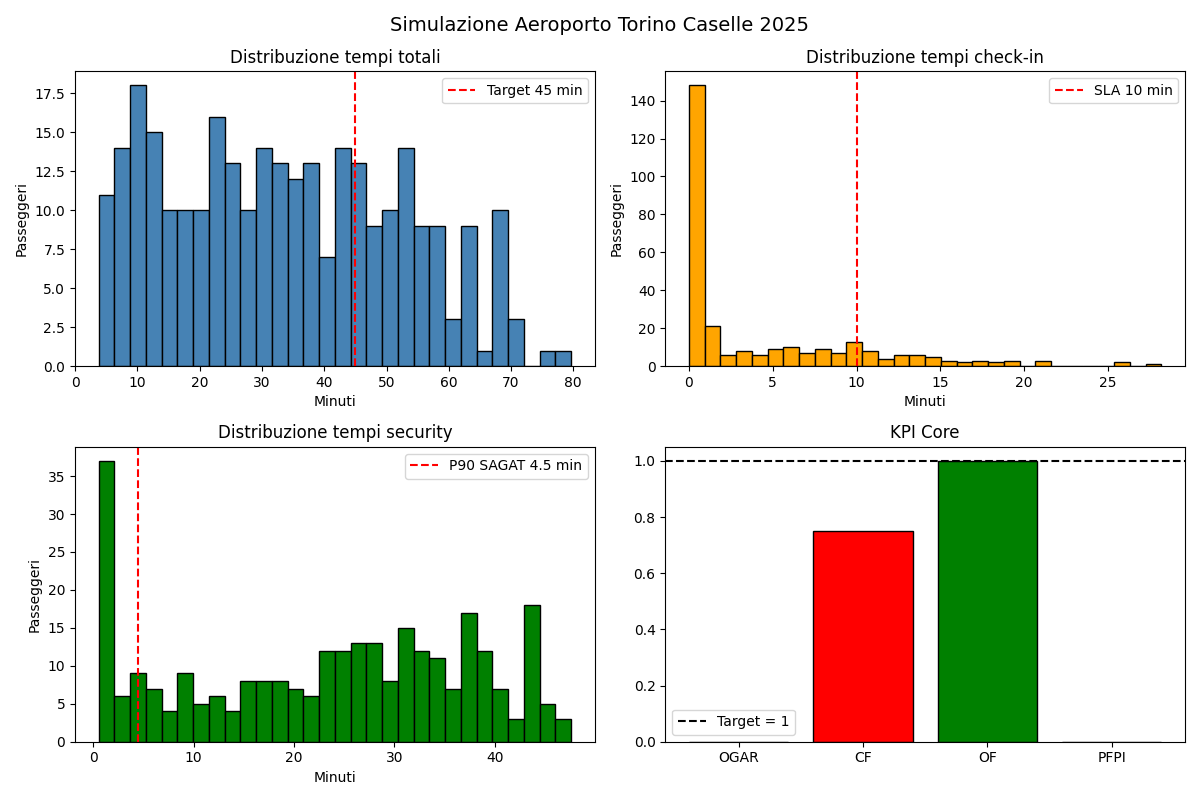
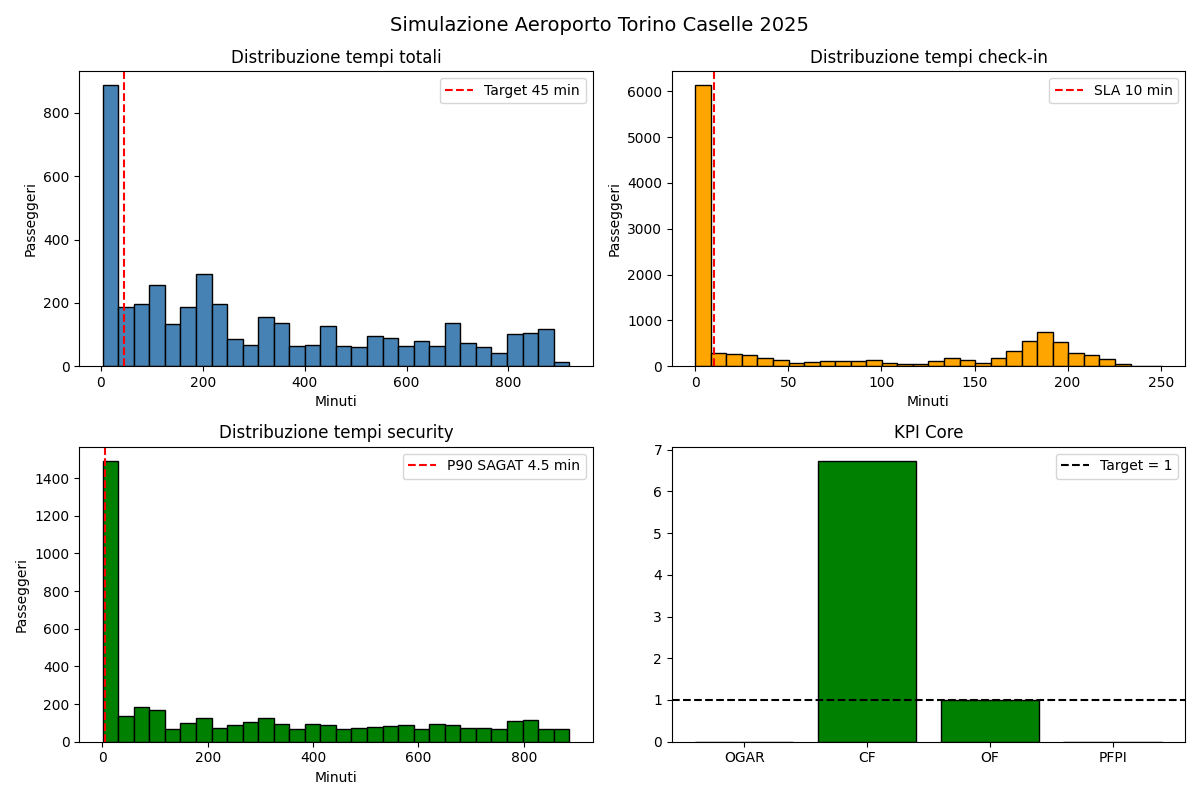
primi output grafici

diff --git a/main.py b/main.py
@@ -2,14 +2,15 @@ import simpy
 import random
 import numpy as np
 from scipy import stats
-from events import Passeggero
+import matplotlib.pyplot as plt
+import os
+from events.events import Passeggero
 from inputdata import (
     prepara_data_simpy, dettaglio_aereo, genera_passeggeri,
     compagnie_info,
     BANCHI_CHECKIN_APERTI, NASTRI_SECURITY,
-    PCT_CHECKIN_ONLINE_SOLO_MANO, PCT_CHECKIN_ONLINE_BAG_DROP,
-    PCT_EXTRA_SCHENGEN, PCT_FAST_TRACK, PCT_EGATE,
-    TEMPO_CHECKIN_BANCO_MIN, TEMPO_CHECKIN_BANCO_MAX,
+    PCT_FAST_TRACK, PCT_EGATE,
+    TEMPO_CHECKIN_BANCO_MIN,
     TEMPO_BAG_DROP_MIN, TEMPO_BAG_DROP_MAX,
     TEMPO_FAST_TRACK_MIN, TEMPO_FAST_TRACK_MAX,
     TEMPO_BORDER_CONTROL_MIN, TEMPO_BORDER_CONTROL_MAX,
@@ -27,27 +28,29 @@ voli_puntuali = []
 # ── PROCESSO PASSEGGERO ──────────────────────────
 def processo_passeggero(env, pax, checkin, security, orario_volo):
 
-    # anticipo arrivo in aeroporto
+    # genera anticipo casuale — quanto prima arriva in aeroporto
     anticipo = np.clip(
         stats.norm.rvs(loc=90, scale=20),
         ANTICIPO_MIN, ANTICIPO_MAX
     )
 
-    # orario arrivo in aeroporto in minuti simulati
+    # orario in cui il passeggero arriva in aeroporto
     orario_arrivo = orario_volo - anticipo
 
     # aspetta fino all'orario di arrivo
     if orario_arrivo > env.now:
         yield env.timeout(orario_arrivo - env.now)
 
-    # segna tempo inizio percorso
+    # segna inizio percorso
     t_start = env.now
 
     # ── CHECK-IN ────────────────────────────────
     if pax.checkin_online == "online_mano":
+        # salta il check-in fisico completamente
         tempi_checkin.append(0)
 
     elif pax.checkin_online == "bag_drop":
+        # banco veloce solo per consegnare bagaglio
         t0 = env.now
         with checkin.request() as req:
             yield req
@@ -58,98 +61,99 @@ def processo_passeggero(env, pax, checkin, security, orario_volo):
         tempi_checkin.append(env.now - t0)
 
     else:
+        # banco completo o kiosk — più lento
         t0 = env.now
         with checkin.request() as req:
             yield req
             tempo = max(TEMPO_CHECKIN_BANCO_MIN,
-                       stats.lognorm.rvs(s=0.3, scale=np.exp(1.2)))
+                        stats.lognorm.rvs(s=0.3, scale=np.exp(1.2)))
             if pax.anziano:
                 tempo *= 1.5
-            tempo *= pax.gruppo
+            tempo *= pax.gruppo   # famiglia → più lento
             yield env.timeout(tempo)
         tempi_checkin.append(env.now - t0)
 
     # ── SECURITY ────────────────────────────────
     t1 = env.now
     if pax.disabilita or random.random() < PCT_FAST_TRACK:
+        # fast track — corsia dedicata più veloce
         yield env.timeout(
             random.uniform(TEMPO_FAST_TRACK_MIN, TEMPO_FAST_TRACK_MAX)
         )
     else:
+        # nastro standard — aspetta risorsa libera
         with security.request() as req:
             yield req
-            tempo_sec = max(0.5,
-                           stats.lognorm.rvs(s=0.4, scale=np.exp(0.8)))
+            tempo_sec = max(0.5, stats.lognorm.rvs(s=0.4, scale=np.exp(0.8)))
             if pax.bagaglio_stiva:
-                tempo_sec *= 1.2
+                tempo_sec *= 1.2   # bagaglio stiva → più lento
             yield env.timeout(tempo_sec)
     tempi_security.append(env.now - t1)
 
-    # ── BORDER CONTROL ──────────────────────────
+    # ── BORDER CONTROL (solo extra-schengen) ────
     if not pax.schengen:
         if random.random() < PCT_EGATE:
+            # e-gate biometrico — più veloce
             yield env.timeout(random.uniform(2, 5))
         else:
+            # sportello manuale — più lento
             yield env.timeout(random.uniform(
                 TEMPO_BORDER_CONTROL_MIN, TEMPO_BORDER_CONTROL_MAX
             ))
 
     # ── CAMMINATA AL GATE ───────────────────────
-    yield env.timeout(random.uniform(TEMPO_GATE_VICINO, TEMPO_GATE_PIANO2_DISTALE))
+    yield env.timeout(
+        random.uniform(TEMPO_GATE_VICINO, TEMPO_GATE_PIANO2_DISTALE)
+    )
 
     # ── ARRIVO AL GATE ──────────────────────────
+    # controlla se arrivato prima della chiusura gate
     orario_target = orario_volo - GATE_CLOSING
     in_tempo = env.now <= orario_target
     passeggeri_in_tempo.append(in_tempo)
 
-    # tempo totale = da quando è arrivato in aeroporto a quando è al gate
+    # salva tempo totale solo se positivo
     tempo_totale = env.now - t_start
     if tempo_totale > 0:
         tempi_totali.append(tempo_totale)
+
+
 # ── GENERATORE VOLI ──────────────────────────────
-# prende tutto il df
 def spawna_voli(env, df, checkin, security):
-    
-    # ordina per orario
+
+    # ordina per orario cronologico
     df = df.sort_values("firstseen").reset_index(drop=True)
     t_inizio = df["firstseen"].min()
-    
+
     for i, row in df.iterrows():
         airline = row["airline"]
         if airline not in compagnie_info:
             continue
-        
-        # orario volo in minuti dall'inizio simulazione
+
+        # converti orario volo in minuti dall'inizio simulazione
         orario_volo = (row["firstseen"] - t_inizio).total_seconds() / 60
-        
+
         # aspetta fino all'orario del volo
         if orario_volo > env.now:
             yield env.timeout(orario_volo - env.now)
-        
-        # crea aereo
+
+        # crea aereo dalla compagnia
         aereo = dettaglio_aereo(airline)
-        
-        # genera passeggeri
+
+        # genera tutti i passeggeri del volo
         passeggeri = genera_passeggeri(aereo)
-        
-        # lancia processo per ogni passeggero
+
+        # lancia processo SimPy per ogni passeggero
         for pax in passeggeri:
             env.process(processo_passeggero(
                 env, pax, checkin, security, orario_volo
             ))
-        
-        # aspetta fino al prossimo volo
-        for i, row in df.iterrows():
-    # ... tutto il codice ...
-    
-    # aspetta fino al prossimo volo
-            if i < len(df) - 1:
-                prossimo = df.iloc[i + 1]
-                delta = (prossimo["firstseen"] - row["firstseen"]).total_seconds() / 60
-                yield env.timeout(max(0, delta))
+        # NON c'è yield qui — passa subito al volo successivo
+        # è SimPy che gestisce i passeggeri in parallelo
+
 
 # ── CALCOLO KPI ──────────────────────────────────
-def calcola_kpi(df):
+def calcola_kpi():
     if not passeggeri_in_tempo:
         print("Nessun passeggero simulato!")
         return
@@ -169,38 +173,19 @@ def calcola_kpi(df):
     print(f"OF:    {of_:.2f}     (target = 1.0)")
     print(f"PFPI:  {pfpi:.2f}    (target > 1.0)")
     print("────────────────────────────────────────")
-    if tempi_totali:
-        print(f"Tempo medio totale:       {np.mean(tempi_totali):.1f} min")
-        print(f"Tempo medio check-in:     {np.mean(tempi_checkin):.1f} min")
-        print(f"Tempo medio security:     {np.mean(tempi_security):.1f} min")
-        print(f"95° percentile tempo:     {np.percentile(tempi_totali, 95):.1f} min")
+    print(f"Tempo medio totale:       {np.mean(tempi_totali):.1f} min")
+    print(f"Tempo medio check-in:     {np.mean(tempi_checkin):.1f} min")
+    print(f"Tempo medio security:     {np.mean(tempi_security):.1f} min")
+    print(f"95° percentile tempo:     {np.percentile(tempi_totali, 95):.1f} min")
 
-# ── MAIN ─────────────────────────────────────────
-def main():
-    df = prepara_data_simpy()
-    print(f"Simulo {len(df)} voli totali anno 2025")
 
-    # calcola durata PRIMA di tutto
-    t_inizio = df["firstseen"].min()
-    t_fine = df["firstseen"].max()
-    durata = (t_fine - t_inizio).total_seconds() / 60 + 500
-
-    env = simpy.Environment()
-    checkin = simpy.Resource(env, capacity=BANCHI_CHECKIN_APERTI)
-    security = simpy.Resource(env, capacity=NASTRI_SECURITY)
-
-    env.process(spawna_voli(env, df, checkin, security))
-    env.run(until=durata)
-
-    calcola_kpi(df)
-    grafici()
-
-import matplotlib.pyplot as plt
-
+# ── GRAFICI ──────────────────────────────────────
 def grafici():
+    os.makedirs("output", exist_ok=True)
+
     fig, axes = plt.subplots(2, 2, figsize=(12, 8))
     fig.suptitle("Simulazione Aeroporto Torino Caselle 2025", fontsize=14)
-    
+
     # grafico 1 — distribuzione tempi totali
     axes[0,0].hist(tempi_totali, bins=30, color="steelblue", edgecolor="black")
     axes[0,0].axvline(x=45, color="red", linestyle="--", label="Target 45 min")
@@ -208,7 +193,7 @@ def grafici():
     axes[0,0].set_xlabel("Minuti")
     axes[0,0].set_ylabel("Passeggeri")
     axes[0,0].legend()
-    
+
     # grafico 2 — distribuzione tempi check-in
     axes[0,1].hist(tempi_checkin, bins=30, color="orange", edgecolor="black")
     axes[0,1].axvline(x=10, color="red", linestyle="--", label="SLA 10 min")
@@ -216,7 +201,7 @@ def grafici():
     axes[0,1].set_xlabel("Minuti")
     axes[0,1].set_ylabel("Passeggeri")
     axes[0,1].legend()
-    
+
     # grafico 3 — distribuzione tempi security
     axes[1,0].hist(tempi_security, bins=30, color="green", edgecolor="black")
     axes[1,0].axvline(x=4.5, color="red", linestyle="--", label="P90 SAGAT 4.5 min")
@@ -224,28 +209,61 @@ def grafici():
     axes[1,0].set_xlabel("Minuti")
     axes[1,0].set_ylabel("Passeggeri")
     axes[1,0].legend()
-    
-    # grafico 4 — KPI core
+
+    # grafico 4 — KPI core a barre
     kpi_labels = ["OGAR", "CF", "OF", "PFPI"]
-    kpi_values = [
-        sum(passeggeri_in_tempo) / len(passeggeri_in_tempo),
-        np.mean(tempi_totali) / 45,
-        1.0,
-        (sum(passeggeri_in_tempo) / len(passeggeri_in_tempo)) / 
-        (np.mean(tempi_totali) / 45)
-    ]
+    ogar = sum(passeggeri_in_tempo) / len(passeggeri_in_tempo)
+    cf = np.mean(tempi_totali) / 45
+    of_ = 1.0
+    pfpi = ogar / (cf * of_) if cf > 0 else 0
+    kpi_values = [ogar, cf, of_, pfpi]
     colori = ["green" if v >= 1 else "red" for v in kpi_values]
     axes[1,1].bar(kpi_labels, kpi_values, color=colori, edgecolor="black")
     axes[1,1].axhline(y=1, color="black", linestyle="--", label="Target = 1")
     axes[1,1].set_title("KPI Core")
     axes[1,1].legend()
-    import os
-    os.makedirs("output", exist_ok=True)  # crea la cartella se non esiste
-    plt.savefig("output/kpi_caselle_2025.png")
+
     plt.tight_layout()
     plt.savefig("output/kpi_caselle_2025.png")
     plt.show()
     print("Grafico salvato in output/kpi_caselle_2025.png")
 
 
-main()
+# ── MAIN ─────────────────────────────────────────
+def main():
+    df = prepara_data_simpy()
+    print(f"Voli totali anno 2025: {len(df)}")
+
+    # simula solo il giorno più trafficato
+    voli_per_giorno = df.groupby("giorno").size()
+    giorno = voli_per_giorno.idxmax()
+    df_giorno = df[df["giorno"] == giorno].copy()
+
+    print(f"Simulo giorno: {giorno} — {len(df_giorno)} voli")
+
+    # calcola durata — solo le ore di quel giorno + margine
+    t_inizio = df_giorno["firstseen"].min()
+    t_fine = df_giorno["firstseen"].max()
+    durata = (t_fine - t_inizio).total_seconds() / 60 + 200
+    print(f"Durata simulazione: {durata:.0f} minuti")
+
+    # reset liste KPI
+    tempi_totali.clear()
+    tempi_checkin.clear()
+    tempi_security.clear()
+    passeggeri_in_tempo.clear()
+    voli_puntuali.clear()
+
+    env = simpy.Environment()
+    checkin = simpy.Resource(env, capacity=BANCHI_CHECKIN_APERTI)
+    security = simpy.Resource(env, capacity=NASTRI_SECURITY)
+
+    env.process(spawna_voli(env, df_giorno, checkin, security))
+    env.run(until=durata)
+
+    calcola_kpi()
+    grafici()
+
+
+if __name__ == "__main__":
+    main()